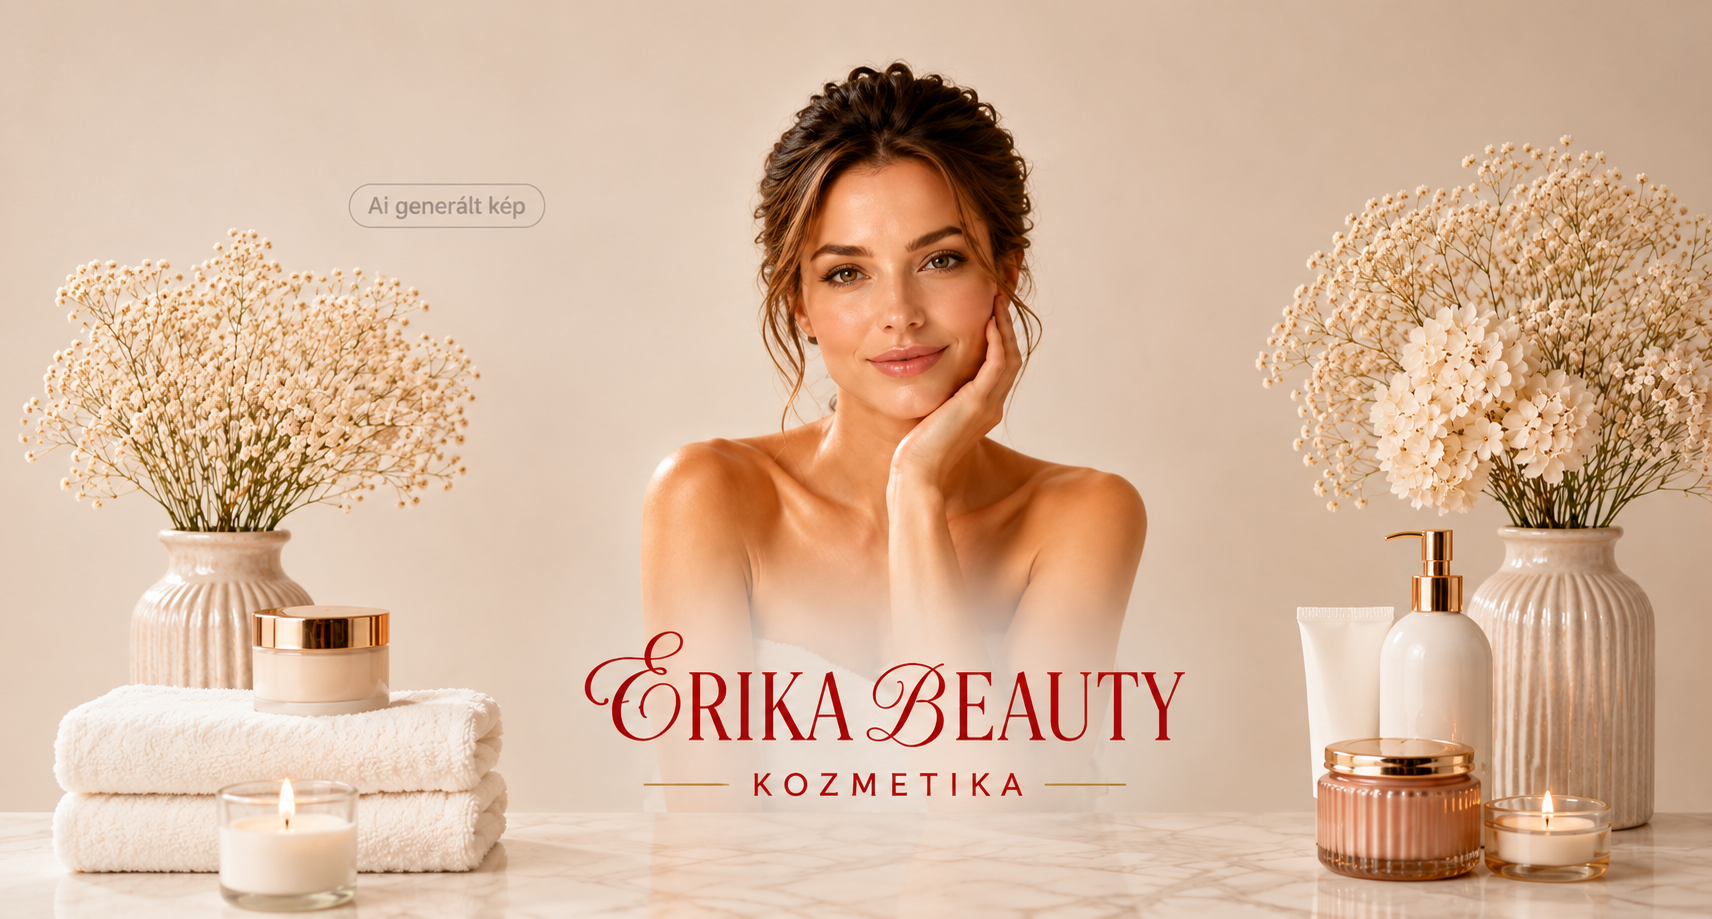
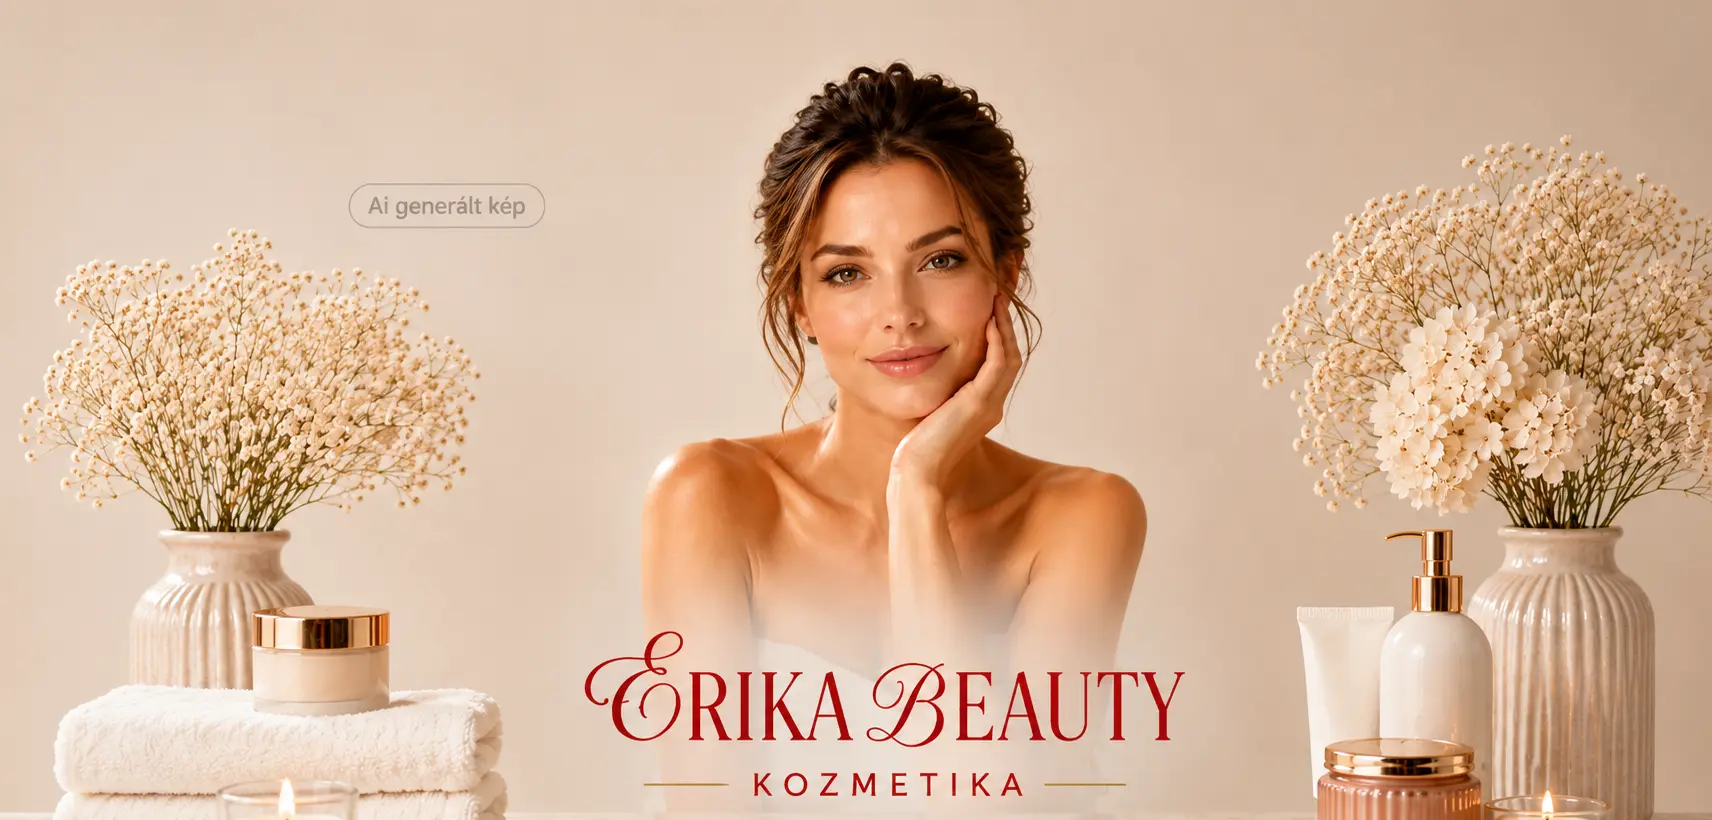
Kontakt fejléc-kép levágva (nincs görgetés), Kezeléseim kártyák halvány háttérképekkel

diff --git a/src/routes/index.tsx b/src/routes/index.tsx
@@ -144,12 +144,21 @@ function HomePage() {
                 key={c.slug}
                 to="/kozmetikai-kezelesek/$category"
                 params={{ category: c.slug }}
-                className="border-b-2 border-primary/40 bg-background p-6 transition-colors hover:border-primary"
+                className="group relative overflow-hidden border-b-2 border-primary/40 bg-background p-6 transition-colors hover:border-primary"
               >
-                <h3 className="font-display text-xl font-semibold">{c.name}</h3>
-                <p className="mt-2 text-sm text-muted-foreground">
-                  {c.treatments.length} kezelés
-                </p>
+                <img
+                  src={c.image}
+                  alt=""
+                  aria-hidden="true"
+                  loading="lazy"
+                  className="pointer-events-none absolute inset-0 h-full w-full object-cover opacity-10 transition-opacity duration-300 group-hover:opacity-15"
+                />
+                <div className="relative">
+                  <h3 className="font-display text-xl font-semibold">{c.name}</h3>
+                  <p className="mt-2 text-sm text-muted-foreground">
+                    {c.treatments.length} kezelés
+                  </p>
+                </div>
               </Link>
             ))}
             {standaloneTreatments.map((t) => (
@@ -157,12 +166,23 @@ function HomePage() {
                 key={t.slug}
                 to="/kozmetikai-kezelesek/$standalone"
                 params={{ standalone: t.slug }}
-                className="border-b-2 border-primary/40 bg-background p-6 transition-colors hover:border-primary"
+                className="group relative overflow-hidden border-b-2 border-primary/40 bg-background p-6 transition-colors hover:border-primary"
               >
-                <h3 className="font-display text-xl font-semibold">{t.name}</h3>
-                <p className="mt-2 text-sm text-muted-foreground">
-                  Időtartam: {t.duration}
-                </p>
+                {t.image && (
+                  <img
+                    src={t.image}
+                    alt=""
+                    aria-hidden="true"
+                    loading="lazy"
+                    className="pointer-events-none absolute inset-0 h-full w-full object-cover opacity-10 transition-opacity duration-300 group-hover:opacity-15"
+                  />
+                )}
+                <div className="relative">
+                  <h3 className="font-display text-xl font-semibold">{t.name}</h3>
+                  <p className="mt-2 text-sm text-muted-foreground">
+                    Időtartam: {t.duration}
+                  </p>
+                </div>
               </Link>
             ))}
           </div>
